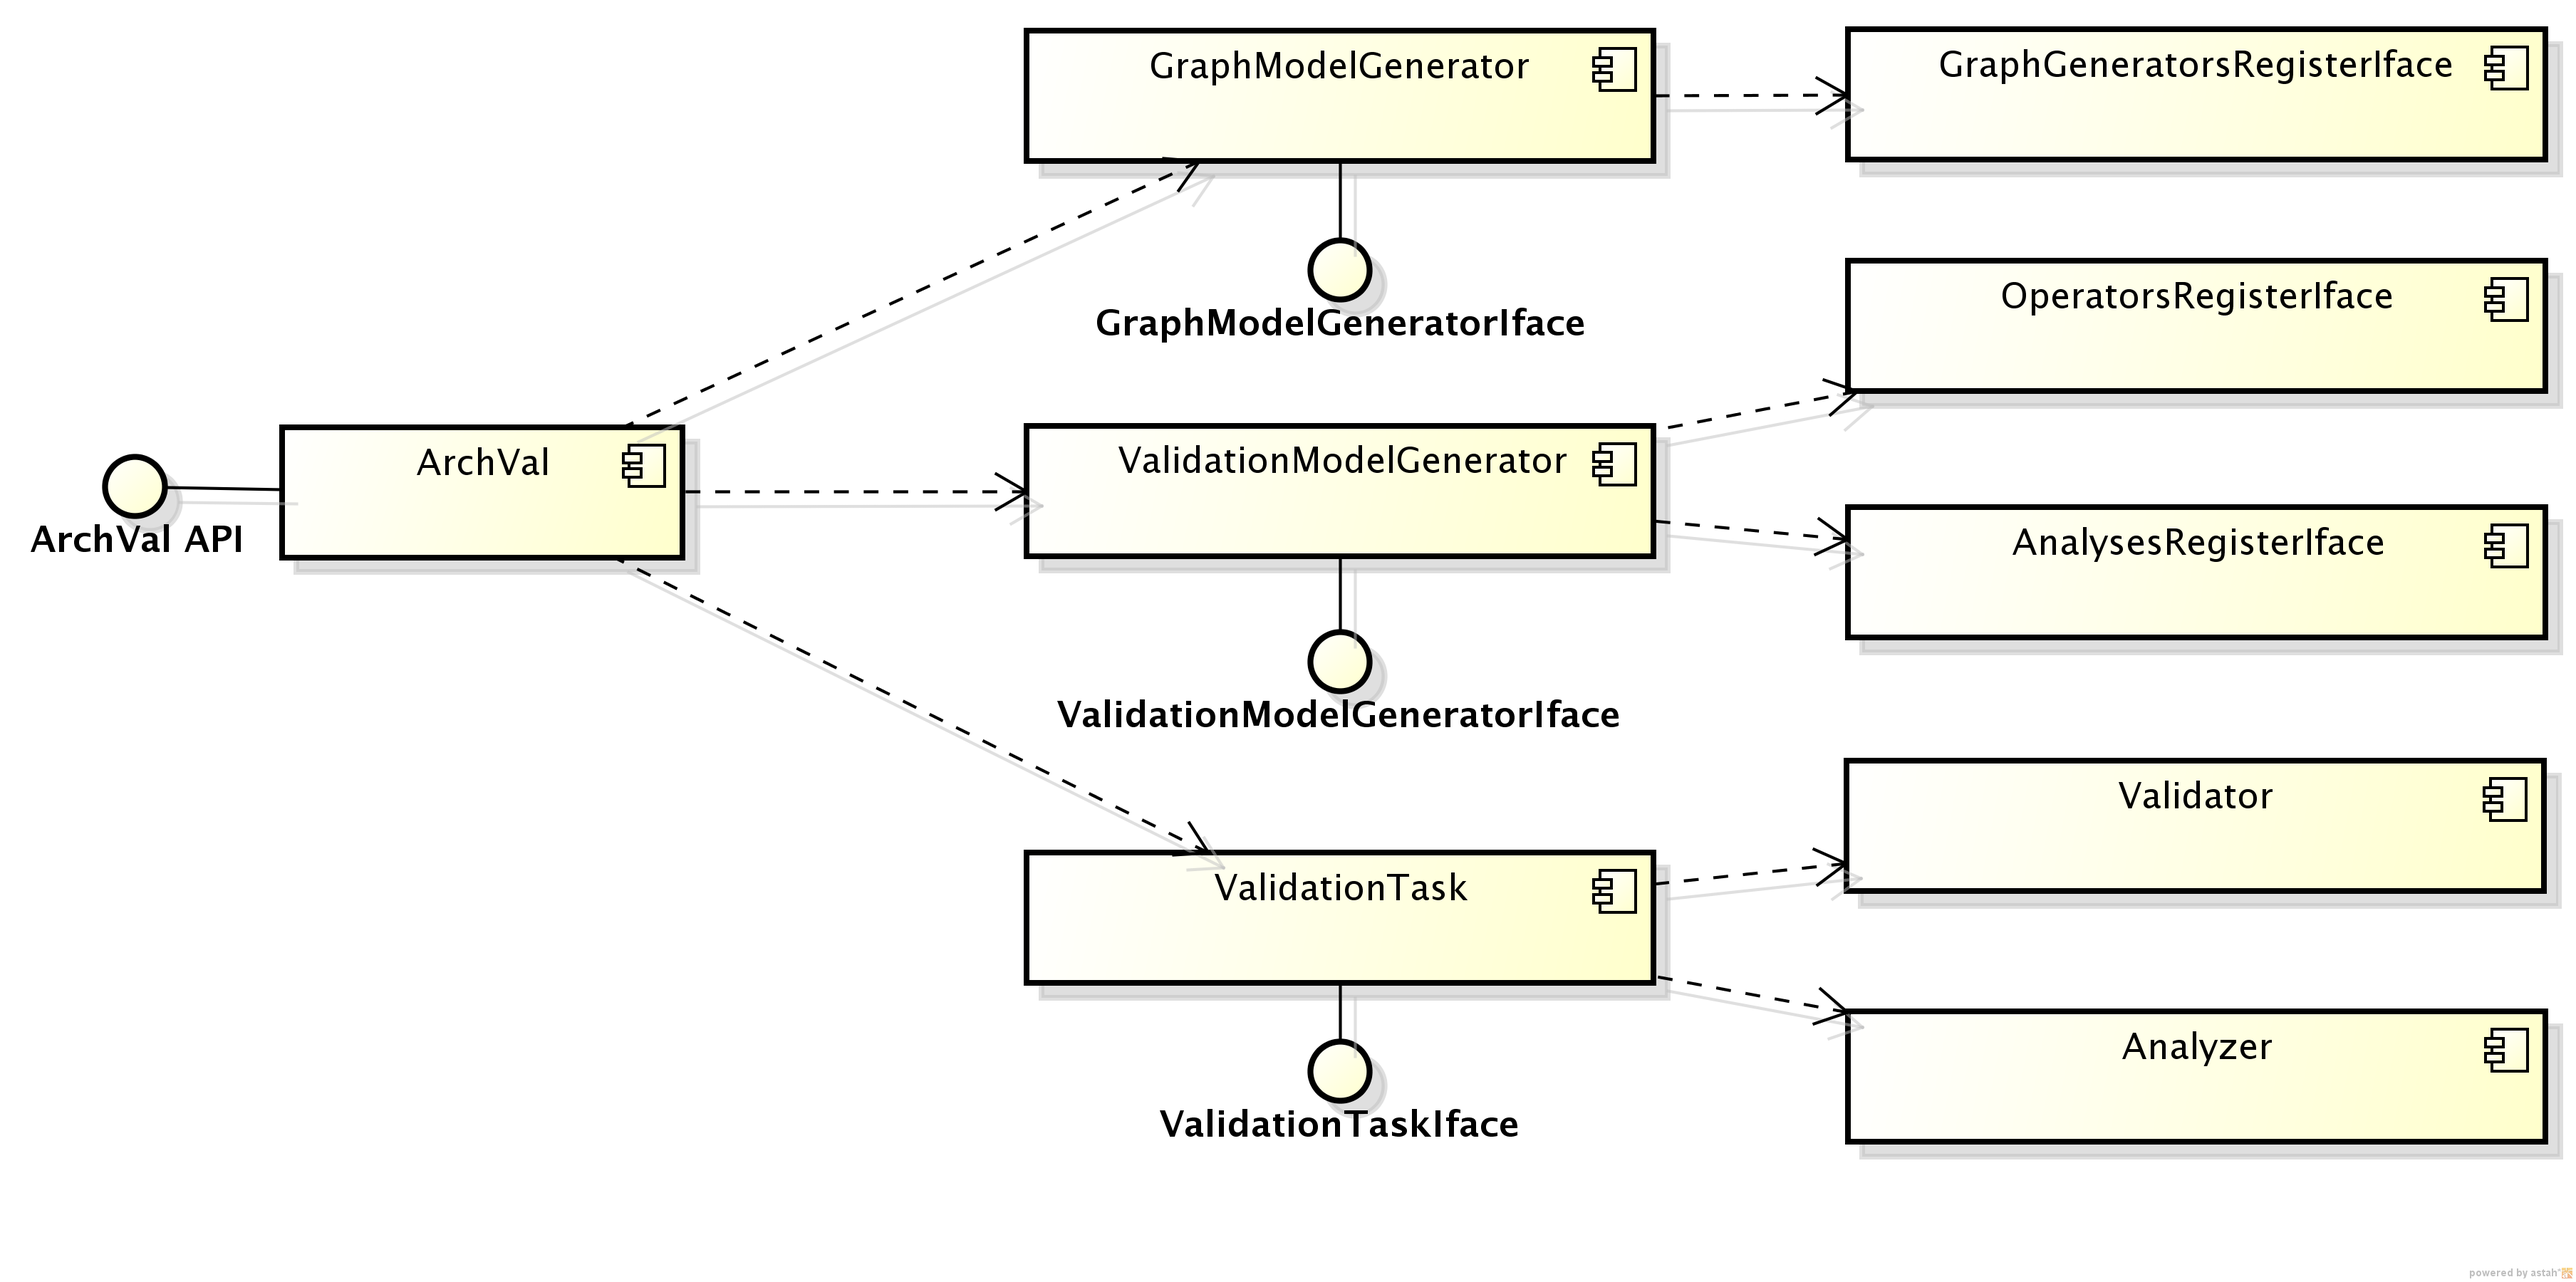
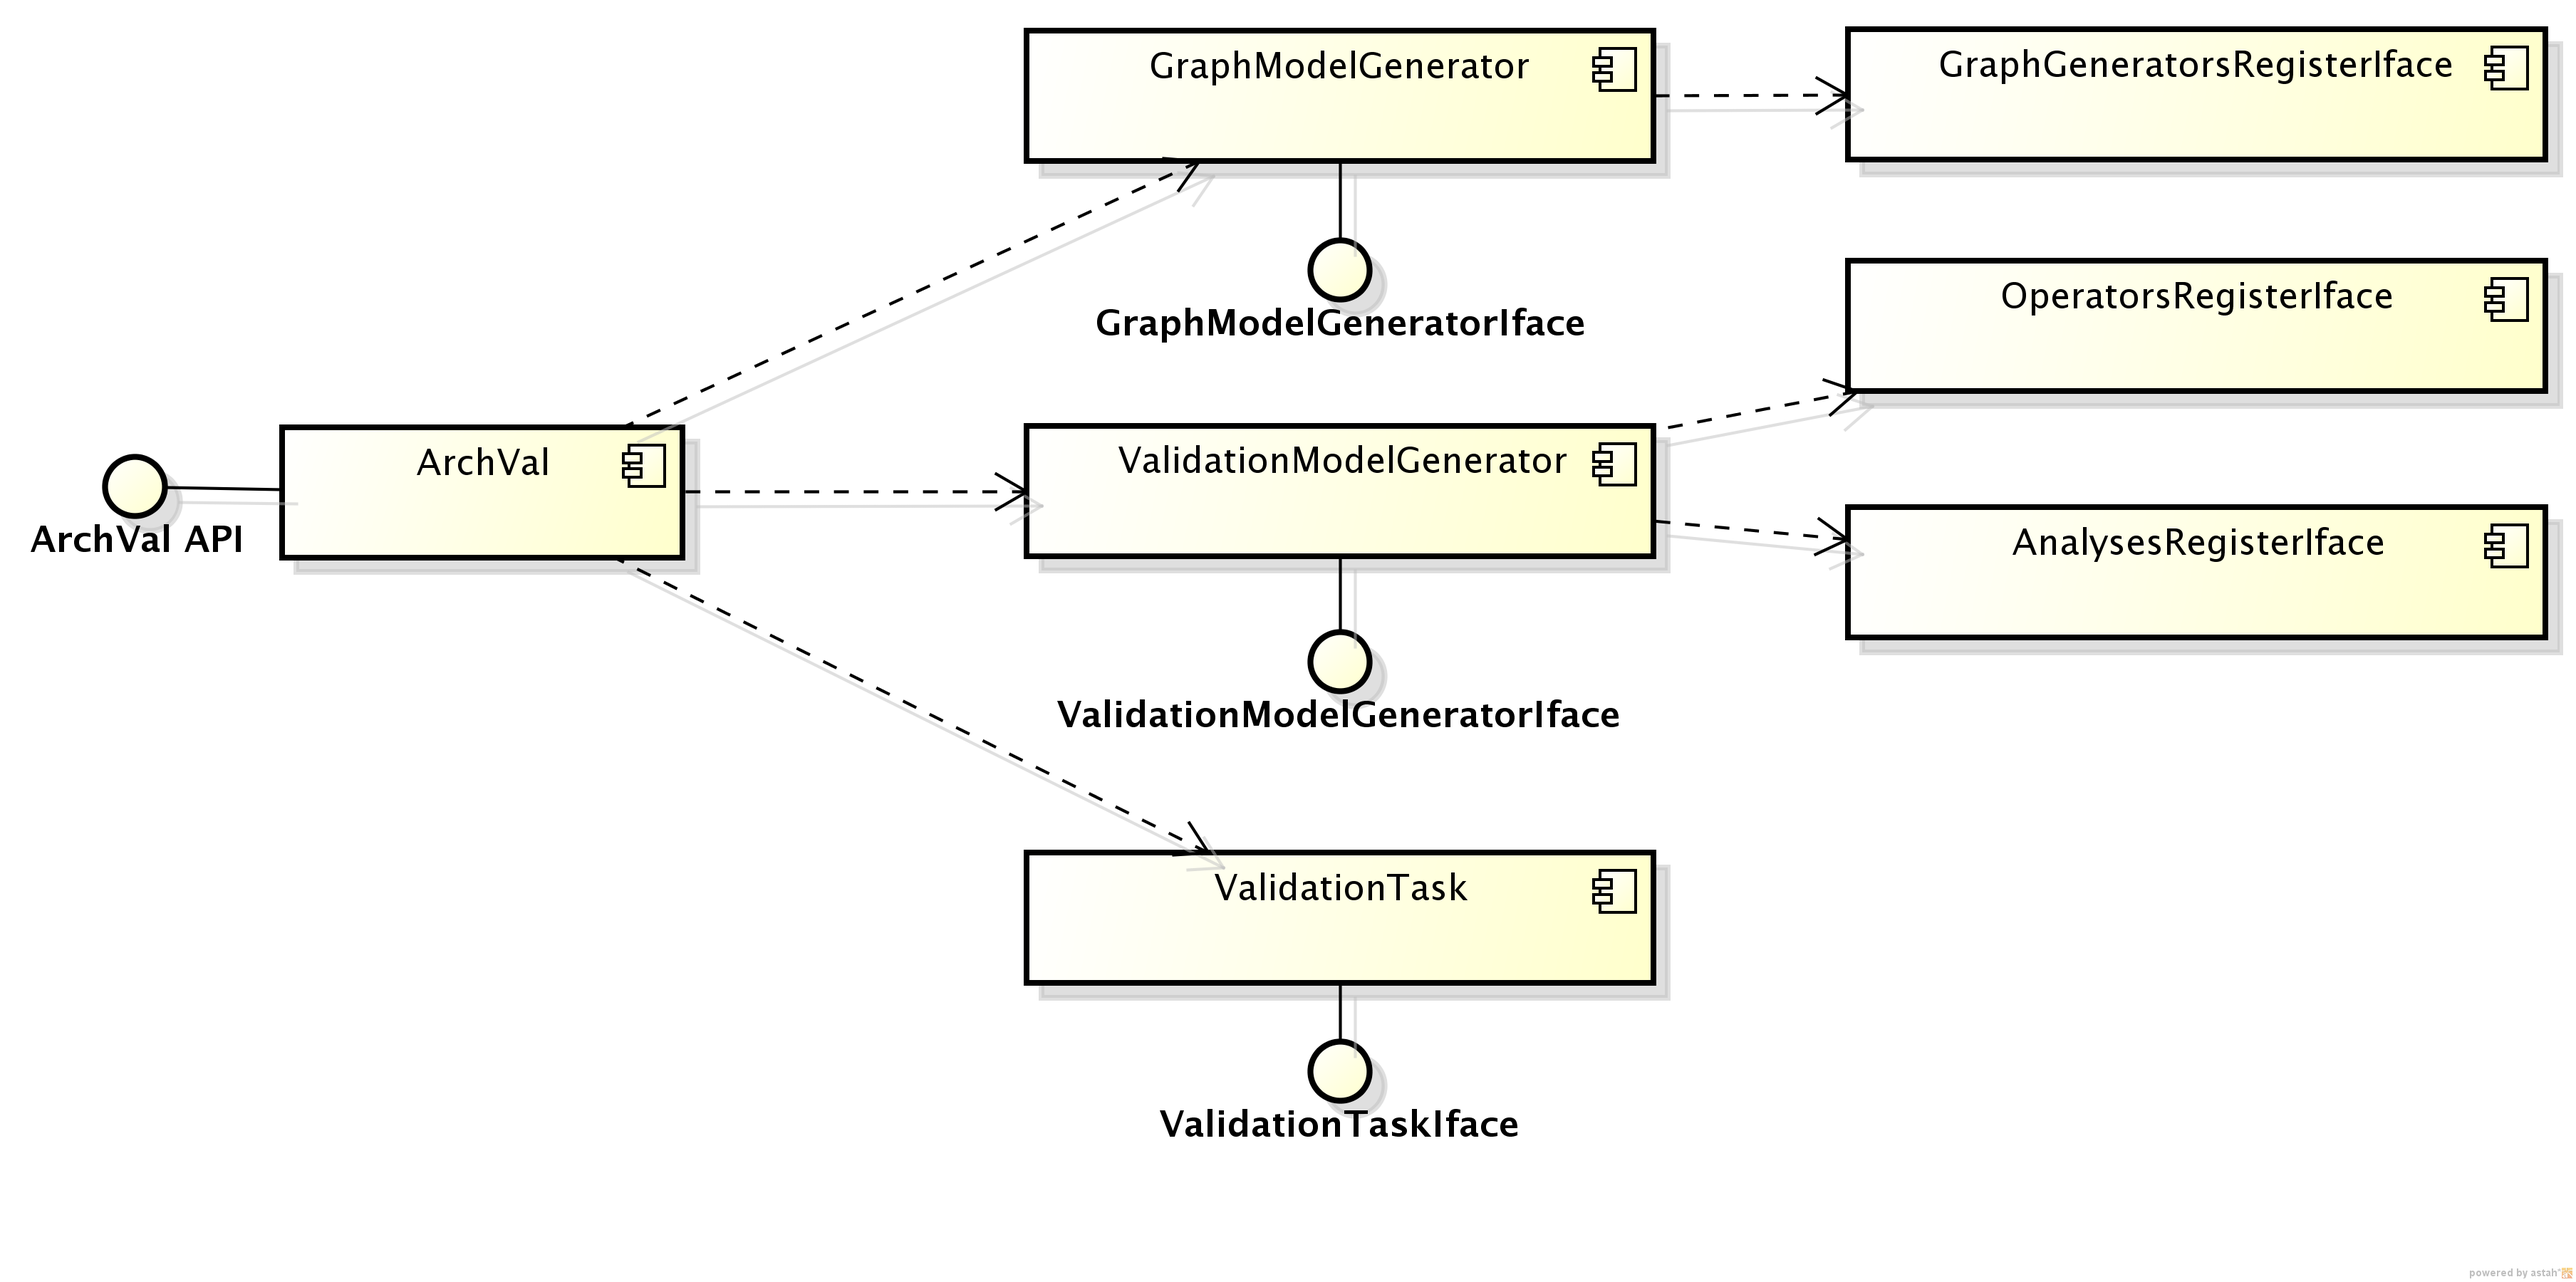
Correct diagram to match the reality, correct some typos

Changed region(s): [[0.6875, 0.7778, 1.0, 0.9022], [0.6875, 0.5911, 1.0, 0.7156]]

diff --git a/archval/thesis/chapters/04_design.tex b/archval/thesis/chapters/04_design.tex
@@ -108,7 +108,7 @@ a přiřazení klasifikátorů hranám:
 
 Uvedené množiny můžeme poměrně snadno reprezentovat v~programovacím jazyce Java jako objekty. V~dalším návrhu bude zavedena třída \emph{Vertex}, hrana \emph{Edge} a další podobné objekty.
 
-Vrcholy takto vytvořeného grafu nemusí být pouze třídy, můžeme použít libovolné syntaktické elementy z~kódu, který analyzujeme. Vždy záleží na úrovni prováděné analýzy, co zvolíme jako vrcholy grafu, jaké hrany mezi nimi zvolíme a jaká označení a typy budou mít. Nástroj, který budeme navrhovat bude počítat s~libovolným takto vybudovaným grafem. Ke grafům konkrétního typu přiřadíme idnentifikátory a při specifikaci pravidel vždy uvedme, nad kterým typem grafu má definované pravidlo platit.
+Vrcholy takto vytvořeného grafu nemusí být pouze třídy, můžeme použít libovolné syntaktické elementy z~kódu, který analyzujeme. Vždy záleží na úrovni prováděné analýzy, co zvolíme jako vrcholy grafu, jaké hrany mezi nimi zvolíme a jaká označení a typy budou mít. Nástroj, který budeme navrhovat bude počítat s~libovolným takto vybudovaným grafem. Ke grafům konkrétního typu přiřadíme idnentifikátory a při specifikaci pravidel vždy uvedeme, nad kterým typem grafu má definované pravidlo platit.
 
 \subsection{Formalizace pravidel}
 \label{design-rules_formalization}
@@ -250,10 +250,11 @@ ValidationModel v~sobě bude zapouzdřovat data z~AVD souborů. AVD soubory budo
 \item \emph{Graph} (class) -- graph type id
 \item \emph{Vertex} (class)
 \item \emph{Edge} (class)
-\item \emph{GraphModel} (class) -- množina grafů různých typů
+\item \emph{GraphModel} (class) -- množina grafů různých typů, každý graf bude zahrnut právě jednou
 \end{itemize}
 
 \subsubsection{Model validace}
+Model validace bude reprezentován třídou \emph{ValidationModel}. Tato třída bude reprezentovat existující množinu pravidel a současně bude umožňovat tato pravidla provést nad existující množinou grafů (\emph{GraphModel}).
 % TODO: rozepsat
 \begin{itemize}
 \item \emph{ValidationModel} (class) -- AST strom souboru pravidel s~navázanými operátory; bude se přegenerovávat při úpravě souboru/textu v~GUI, atd\ldots
@@ -296,18 +297,8 @@ Jádro systému bude poskytovat třídy a rozhraní popsané v~tabulce \ref{desi
 \end{table}
 
 \begin{itemize}
-\item \emph{GraphModelGenerator} -- updateGraphModel() -- přegeneruje graph model -- pouze doplní požadované chybějící grafy, regenerate() -- kompletně zruší všechny grafy a vyganeruje nové (všechny požadované)
+\item \emph{GraphModelGenerator} -- updateGraphModel() -- přegeneruje graph model -- pouze doplní požadované chybějící grafy, regenerate() -- kompletně zruší všechny grafy a vygeneruje nové (všechny požadované)
 \end{itemize}
-
-% TODO: move to appropriate position:
-%% případy užití při generování grafu
-%% \item možnosti generování grafu závislostí mezi třídami (vnitřní reprezentace):
-%%   \begin{itemize}
-%%   \item on demand -- když bude potřeba, vybuduje se kompletně celý graf a poté se zahodí
-%%   \item on the fly -- při práci uživatele na kódu se bude vždy generovat znovu celý graf
-%%   \item kombinovaný přístup -- graf se ve vhodných okamžicích celý vybuduje a poté budou probíhat jeho následné aktualizace na základě uživatelovy práce nad kódem
-%%   \end{itemize}
-% ENDTODO
 
 Na obrázku \ref{design-archval_core} jsou zobrazeny komponenty modulu \emph{archval-core}.
 
@@ -324,10 +315,10 @@ Reprezentuje komponentu, která provede převod zdrojových kódů na graf (zobr
 % TODO: rozepsat
 GraphModelGeneratorIface
 
-Komponenta typu \emph{GraphModelGenerator} je znázorněna na obrázku \ref{design-graph_generator_io}.
+Komponenta typu \emph{GraphModelGeneratorIface} je znázorněna na obrázku \ref{design-graph_generator_io}.
 
 \begin{itemize}
-\item \emph{Vstup:} seznam java souborů, z~nichž sestává projekt, identifikátory požadovaných typů grafů
+\item \emph{Vstup:} seznam Java souborů, z~nichž sestává projekt, identifikátory požadovaných typů grafů
 \item \emph{Výstup:} GraphModel objekt
 \end{itemize}
 
@@ -396,6 +387,8 @@ Výstupem bude \emph{ValidationReport} (vnitřní struktura, která se bude posl
 \end{itemize}
 
 \subsubsection{Rozhraní registrů poskytovatelů implementací}
+
+Aby bylo možné systém rozšiřovat přidáváním dalších operátorů, generátorů grafů nových typů a analýz, musíme poskytnout vhodný mechanismus, který umožní zapojení nových modulů do programu.
 % TODO: sort
 \begin{itemize}
 \item SPI, poskytovatel služby, lookup, META-INF/services,
@@ -467,7 +460,7 @@ Hierarchie rozhraní operátorů je znázorněna na obrázku \ref{design-operato
 %TODO: popis validačního procesu: rozepsat následující itemize
 \begin{itemize}
 \item systém načte moduly
-\item systém zkontroluje základní předpoklady - existuje alespoň jeden modul pro generování grafu, alespoň jeden modul operátorů (nebo poskytovatel analyzerů ???) a alespoň jeden modul s~poskytovatelem generátou výstupu
+\item systém zkontroluje základní předpoklady - existuje alespoň jeden modul pro generování grafu, alespoň jeden modul operátorů (nebo poskytovatel analyzerů ???) a alespoň jeden modul s~poskytovatelem generátoru výstupu
 \item systém zparsuje soubor pravidel a vygeneruje AST
 \item systém zkontroluje, zda pro AST pravidel existují potřebné providery grafů
 \item systém zkontroluje, zda pro AST pravidel existují všechny operátory
@@ -519,7 +512,7 @@ Možnosti různého způsobu vstupu pravidel -- editor se zvýrazňováním synt
 \item NetBeans platform
 \item Maven project
 \item Java 1.6
-\item vstupem bude java maven projekt
+\item vstupem bude Java Maven projekt
 \item \ldots
   % TODO: vytvorit prehled technologii i s jejich popisy
 \end{itemize}
